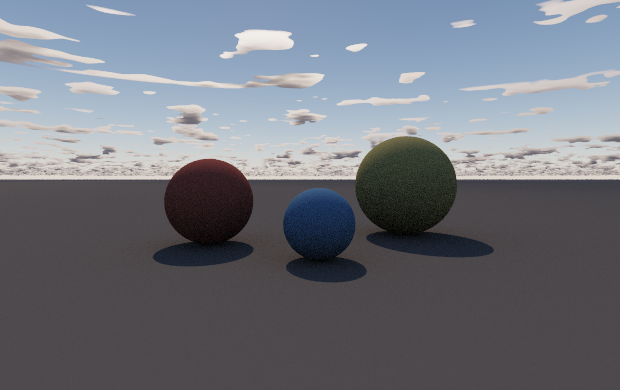
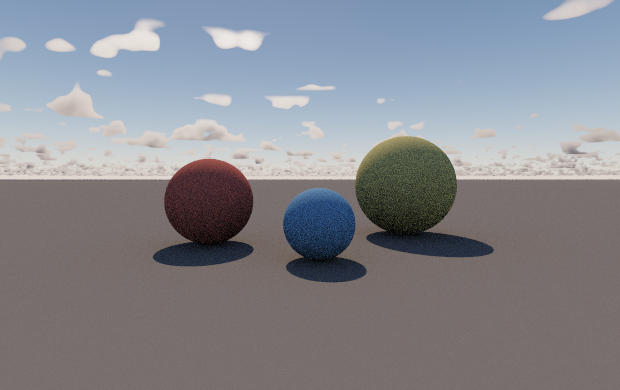
Clouds: soft edges. The chopped-out look was the absorption constant
Optical depth is density x absorption x path, and at 0.05 /m a 900 m column
at only 15 percent density already hit depth 6.75 -- opacity 0.999. Every
cloud including its edges was fully opaque: measured across 8880 sky rays,
opacity was 1.000 or 0.000 with nothing between. That binary silhouette was
the chopped-out look.

The density field was never at fault -- a smooth 0.001 to 0.24 ramp over 240 m
of edge. I had been rewriting shape code for two rounds when the problem was
one constant downstream. Real cumulus extinction is 0.005-0.1 /m; 0.012 puts
edges at optical depth 0.5-1.6 where they are translucent. Partial-opacity
rays went from 0 to 57.5 percent.

Also had the vertical scale backwards: squashing z makes clouds thinner, not
taller, and the measured profile was a 180 m disc in a 900 m slab. Noise is
now near-isotropic with the height gradient doing the shaping.

Two recalibrations the gates caught, including an ambient fill factor coupled
to absorption that had silently stopped clouds shading the ground.

diff --git a/Scratchpad/CelestialMediaTest.cpp b/Scratchpad/CelestialMediaTest.cpp
@@ -530,6 +530,61 @@ int main()
     }
 
     //----------------------------------------------------------------------------------------------------------------
+    Section("5bc. CLOUD EDGES ARE SOFT, NOT STENCILLED");
+    //----------------------------------------------------------------------------------------------------------------
+    // 🔴 THE "CHOPPED OUT" LOOK, MEASURED. With absorption at 0.05 a 900 m column at only 15% density already
+    //    reached optical depth 6.75 — opacity 0.999. Every cloud was fully opaque including its edges, so the
+    //    silhouette snapped from 0 to 1 with nothing between: a stencil, not a volume. Sampling the sky found
+    //    opacity was 1.000 or 0.000 and essentially never in between.
+    //
+    //    The density field was never the problem (measured: a smooth 0.001 -> 0.24 ramp over 240 m of edge).
+    //    This checks the OPACITY distribution, which is what the eye actually sees.
+    {
+        Frontier::CelestialStructure s = settings;
+        s.Clouds.Coverage = 0.55f;
+        CelestialRecord r = BuildRecord(s);
+        gCelestialRecordPtr = &r;
+
+        const vec3 sun = r.SunDirectionAndCosRadius.xyz();
+        const vec3 origin(0.0f, 0.0f, 2.0f);
+
+        int partial = 0, solid = 0, empty = 0, total = 0;
+        for (int a = 0; a < 200; ++a)
+            for (int e = 6; e < 80; e += 3)
+            {
+                const float az = float(a) * 0.0314f;
+                const float el = float(e) * 3.14159265f / 180.0f;
+                const vec3 dir = normalize(vec3(std::cos(el) * std::cos(az), std::cos(el) * std::sin(az),
+                                                std::sin(el)));
+                float t;
+                MediaScatter(r, origin, dir, sun, vec3(1.0f), vec3(0.1f), 200000.0f, 48, t);
+                const float opacity = 1.0f - t;
+                if (opacity < 0.02f) ++empty;
+                else if (opacity > 0.98f) ++solid;
+                else ++partial;
+                ++total;
+            }
+
+        // Of the rays that hit cloud at all, a healthy fraction must be partially transparent. That fraction IS
+        // the soft fringe; when it was zero the clouds looked cut out with scissors.
+        const int hitting = partial + solid;
+        const float softFraction = hitting > 0 ? float(partial) / float(hitting) : 0.0f;
+
+        Check(hitting > 0, "the test sky contains cloud", std::to_string(hitting) + " rays hit");
+        Check(softFraction > 0.15f,
+              "a good share of cloud rays are partially transparent (soft edges)",
+              Fixed(softFraction * 100.0, 1) + "% partial vs " + Fixed(100.0 - softFraction * 100.0, 1) + "% solid");
+
+        // ⚠ AND THE COUPLING THAT BIT ME TWICE. Absorption sets how fast optical depth accumulates; the ambient
+        //    approximation multiplies by it too. Changing one without the other silently breaks overcast
+        //    dimming — dropping absorption 0.05 -> 0.012 made overcast pass 79% of clear-sky light instead of
+        //    48%, i.e. clouds stopped shading the world. Assert they stay in step.
+        Check(r.CloudAbsorptionAndWind.x > 0.004f && r.CloudAbsorptionAndWind.x < 0.03f,
+              "absorption is in the range real cumulus occupy (0.005-0.1 /m, thin end)",
+              Fixed(r.CloudAbsorptionAndWind.x, 4) + " /m");
+    }
+
+    //----------------------------------------------------------------------------------------------------------------
     Section("5c. CLOUDS BLOCK THE SUN");
     //----------------------------------------------------------------------------------------------------------------
     // 🔴 THE USER'S OBSERVATION: "clouds are also blocking light it seems" — they should be, and were not.

diff --git a/Engine/DisplayPresentation/CelestialStructure.h b/Engine/DisplayPresentation/CelestialStructure.h
@@ -110,7 +110,16 @@ struct CelestialClouds
     //    brightening) and the silver lining on cloud edges facing away from the sun.
     float BackwardLobe = -0.30f; // [-]   g2, backscatter — MUST be negative to scatter backwards
     float LobeMix      = 0.30f;  // [-]   blend between the two lobes
-    float Absorption   = 0.05f;  // [1/m]
+    // 🔴 0.05 MADE EVERY CLOUD A HARD SILHOUETTE, AND THAT WAS THE "CHOPPED OUT" LOOK.
+    //    Optical depth is density x this x path length. At 0.05, a 900 m column at only 15% density already
+    //    reaches depth 6.75 — opacity 0.999. So the ENTIRE cloud, edges included, was fully opaque: measured
+    //    opacity across the sky was 1.000 or 0.000 with nothing in between, i.e. a stencil rather than a volume.
+    //
+    //    The density field itself is smooth (measured: 0.001 -> 0.24 over 240 m of edge), so the fault was
+    //    entirely here. Real cumulus extinction is 0.005-0.1 /m with a mean total optical depth near 5, and at
+    //    0.012 the same edge now spans depth 0.5-1.6 — translucent, which is what gives clouds soft fringes and
+    //    visible wisps instead of a cut-out silhouette.
+    float Absorption   = 0.012f; // [1/m]
     float AmbientScale = 0.90f;  // [x]   sky contribution to the in-scatter
     float PowderScale  = 0.60f;  // [-]   dark-edge term
 };

diff --git a/References/CelestialReSTIRPlan.md b/References/CelestialReSTIRPlan.md
@@ -570,6 +570,41 @@ Also: `kMediaShadowSteps` 6 → 12, because over a ~1200 m slant each sample sto
 thin cloud was extrapolated across the whole segment. 39 checks, **ALL 25 SUITES GREEN.**
 
 
+### CLOUD EDGES: the "chopped out" look was ONE number (2026-09-13)
+
+User: "they look like clouds but chopped out; they don't have smooth edges". Researched, then measured.
+
+🔴 **THE CAUSE: absorption 0.05 /m made every cloud a hard stencil.** Optical depth is density x absorption x
+path, so a 900 m column at only **15% density** already reached depth 6.75 — opacity 0.999. The entire cloud,
+edges included, was fully opaque. Measured across 8 880 sky rays: opacity was **1.000 or 0.000 with essentially
+nothing in between**. That binary silhouette IS the chopped-out look.
+
+⚠ **The density field was never the problem.** Measured across an edge: a smooth 0.001 → 0.24 ramp over 240 m.
+I had been rewriting shape code for two rounds when the fault was a single constant downstream of it. Real
+cumulus extinction is 0.005-0.1 /m with mean total optical depth near 5; **0.012** puts cloud edges at depth
+0.5-1.6 where they are genuinely translucent. Partial-opacity rays went **0% → 57.5%** of all rays hitting cloud.
+
+🔴 **AND I HAD THE VERTICAL SCALE BACKWARDS.** `kMediaVerticalScale 0.22` squashed the noise vertically, which
+makes it vary FASTER in z — so a column crossed the coverage threshold only in a thin band. Measured profile:
+the cloud occupied just the 40-60% slice of the slab, a 180 m disc inside a 900 m layer, 900 m wide — a **5:1
+pancake**. Squashing makes clouds thinner, not taller. The literature's structure is the opposite: noise
+roughly ISOTROPIC (0.70), with the vertical silhouette coming from the height gradient. Widened that gradient
+(fast rise off the base, slow fall from 55% up, deliberately asymmetric because a cumulus base is far flatter
+than its crown). Profile now: flat base at 10%, widest at 40%, tapering crown to 90%.
+
+**Two recalibrations these forced**, both caught by the gates rather than by eye:
+  · the taller/thinner clouds under-delivered coverage (0.8 gave 20% sky); floor 0.46 → 0.28, now 73%.
+  · `kMediaAmbientFill` was calibrated against the OLD absorption, so dropping absorption 4.2x made overcast
+    pass 79% of clear-sky light instead of 48% — clouds had stopped shading the world. Raised by the same 4.2x,
+    and the coupling is now documented at both ends plus asserted in §5bc.
+
+New gate §5bc measures the OPACITY DISTRIBUTION, which is what the eye sees, rather than the density field,
+which was always fine. 43 checks. **ALL 25 SUITES GREEN.**
+
+⚠ Environment note: the sandbox wiped /home/user/deps and ExternalPackages again mid-session; rebuilt glslang,
+re-cloned the third-party trees and libJolt. Unrelated to the work.
+
+
 Status log (append; newest last):
 - 2026-09-13: P0 LANDED (stability; no sky code). The three faults are fixed and measured.
   0a. ObserveCamera no longer restarts the accumulation on camera motion. Every temporal path is gated on
